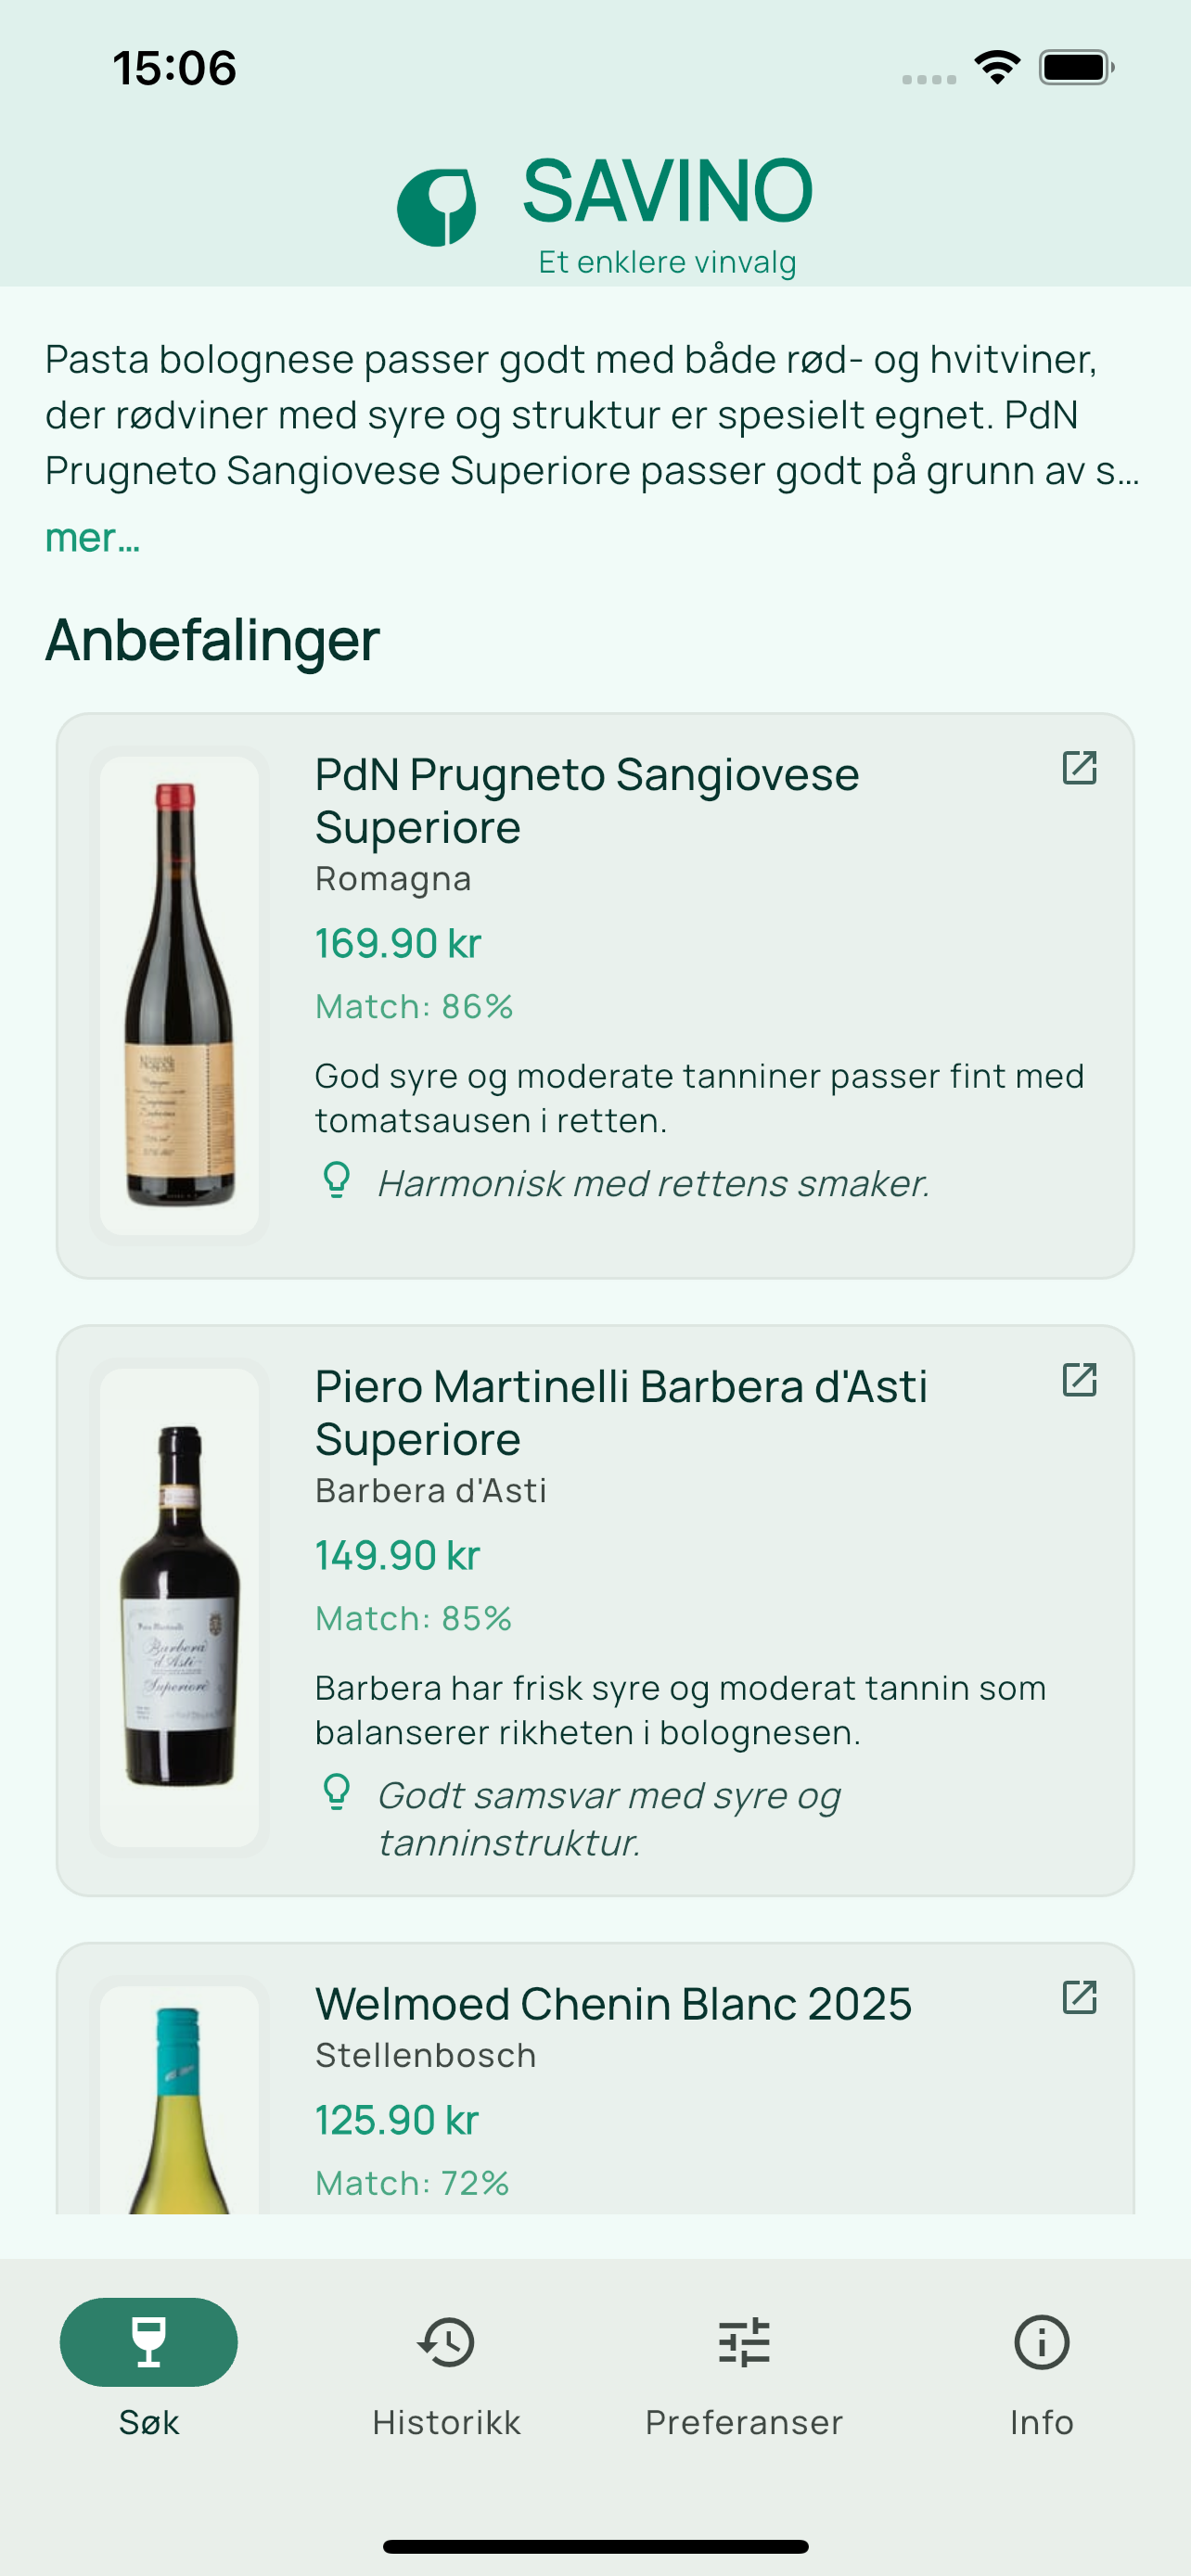
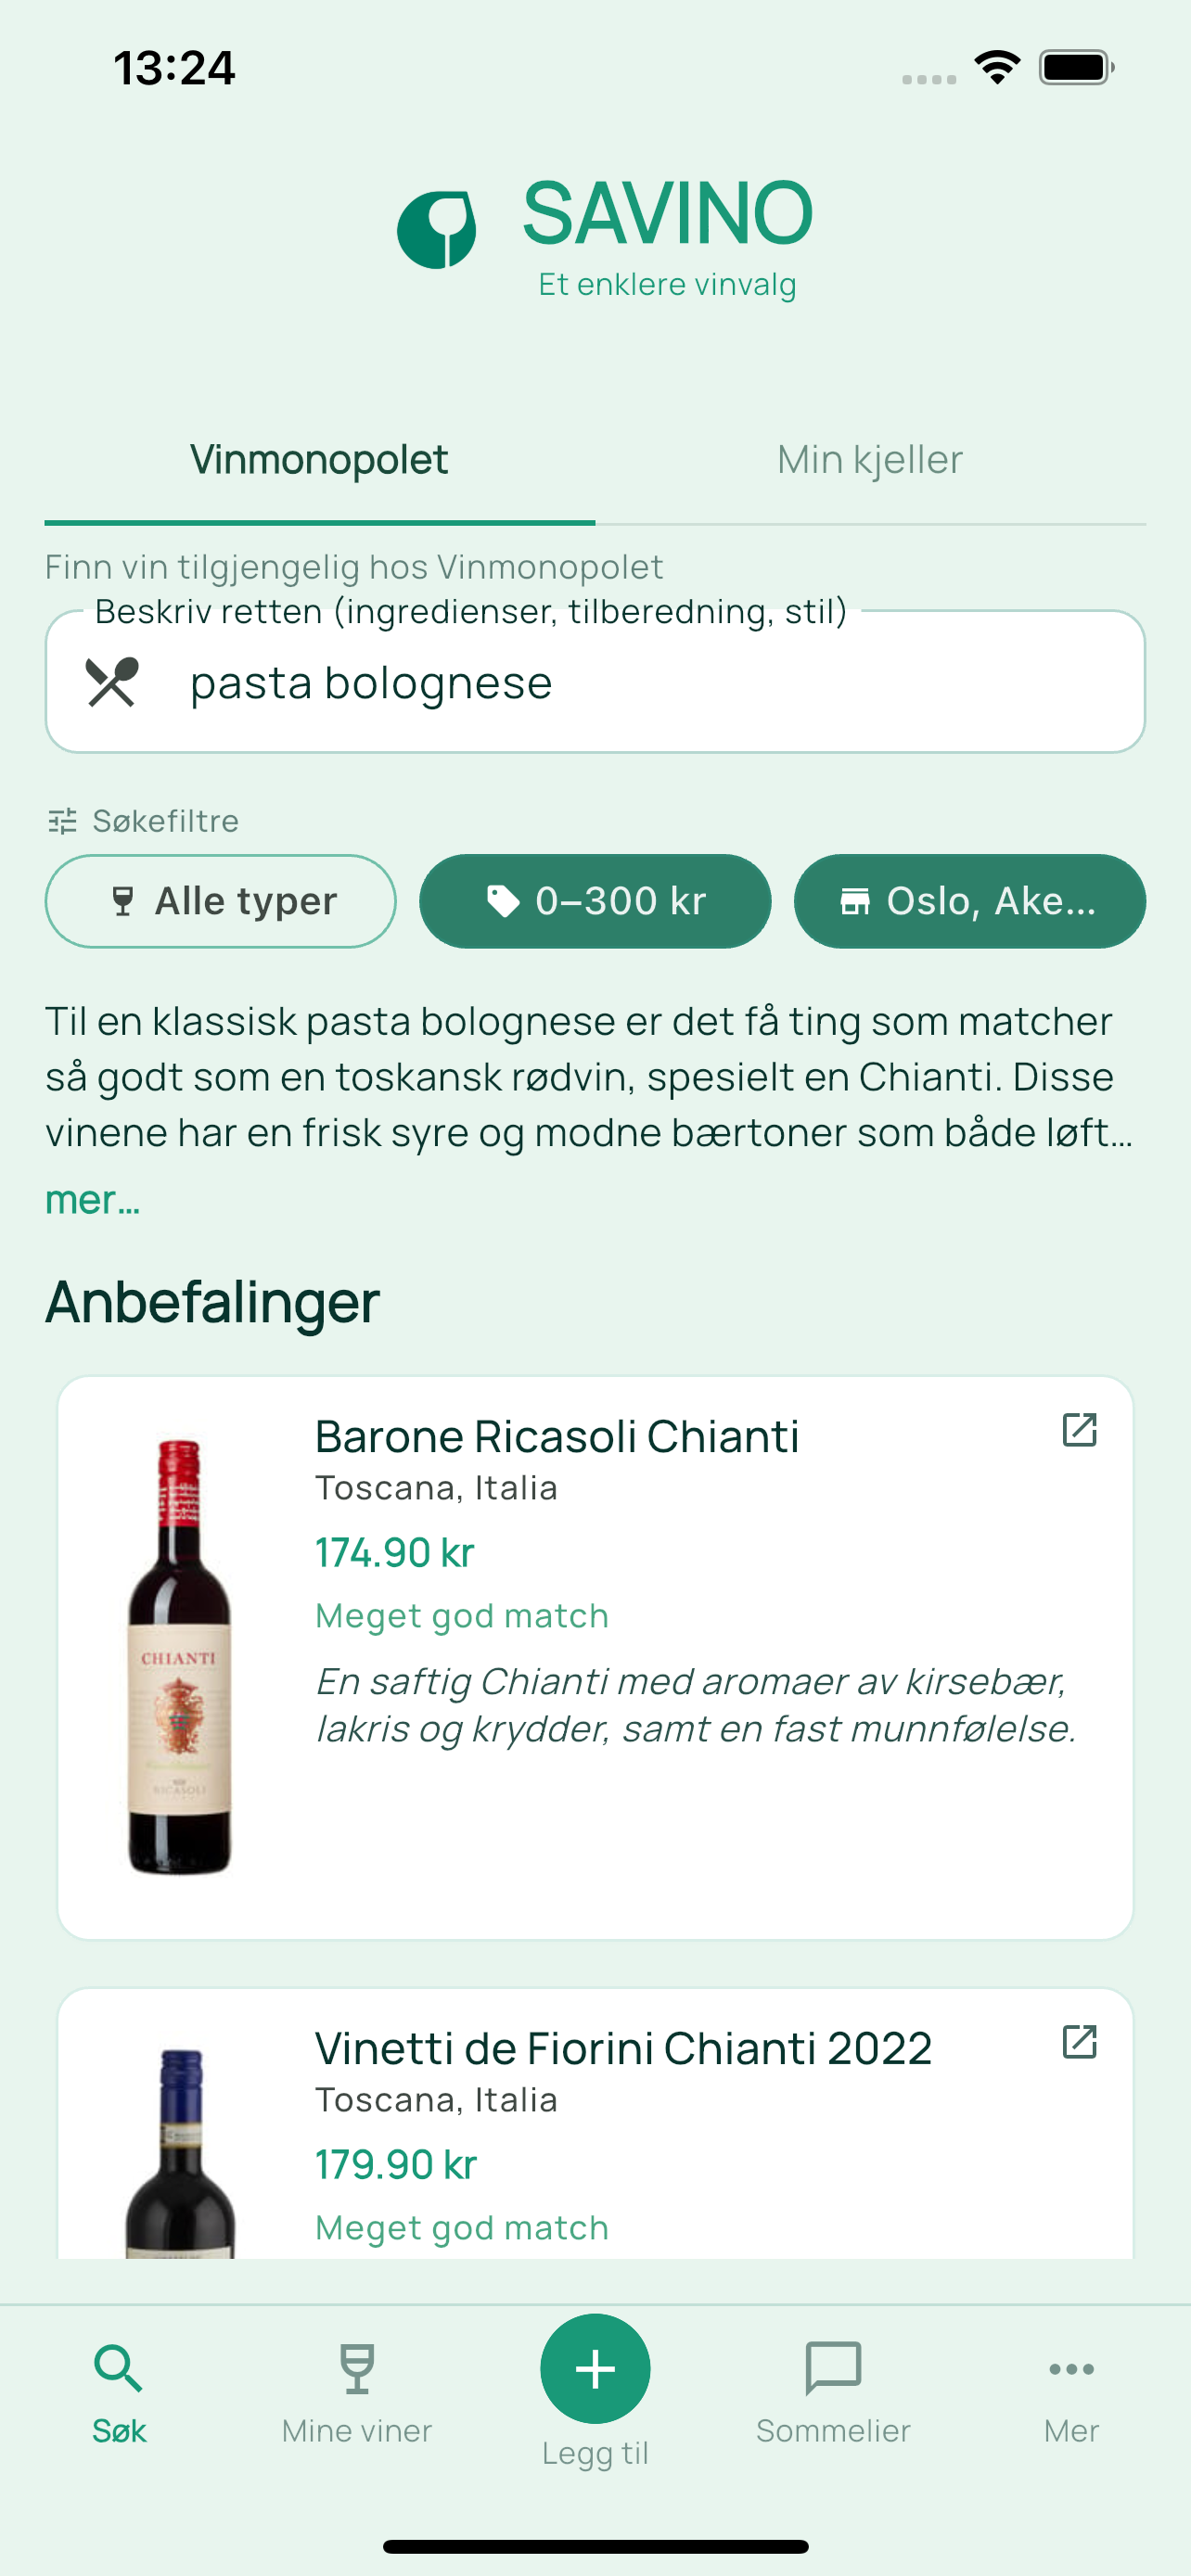
fix landningssida

diff --git a/terms.html b/terms.html
@@ -1,0 +1,89 @@
+<!doctype html>
+<html lang="no" class="light">
+<head>
+  <meta charset="utf-8" />
+  <meta name="viewport" content="width=device-width, initial-scale=1" />
+  <title>Savino – Vilkår for bruk</title>
+  <meta name="description" content="Vilkår for bruk av Savino." />
+  <meta name="theme-color" content="#0B4F46" />
+  <link rel="preconnect" href="https://fonts.googleapis.com">
+  <link rel="preconnect" href="https://fonts.gstatic.com" crossorigin>
+  <link href="https://fonts.googleapis.com/css2?family=Inter:wght@400;600;700&display=swap" rel="stylesheet">
+  <link rel="stylesheet" href="./styles.css" />
+</head>
+
+<body>
+
+  <header class="nav">
+    <div class="container nav-inner">
+      <div class="brand">
+        <img
+          src="./logo_primary.png"
+          alt="Savino"
+          class="logo"
+          width="48"
+          height="48"
+        />
+        <div class="brand-text">
+          <div class="brand-name">SAVINO</div>
+          <div class="brand-tagline">Vilkår for bruk</div>
+        </div>
+      </div>
+      <div class="nav-actions">
+        <a class="btn btn-secondary" href="./index.html">Tilbake</a>
+      </div>
+    </div>
+  </header>
+
+  <main class="first-section">
+    <div class="container">
+      <h1>Vilkår for bruk</h1>
+      <p class="lead">Sist oppdatert: 29. april 2026</p>
+
+      <div class="card" style="max-width: 860px;">
+        <h3>Om Savino</h3>
+        <p>Savino er en app som gir vinanbefalinger basert på matretter brukeren skriver inn. Ved å bruke appen godtar du disse vilkårene.</p>
+
+        <h3 style="margin-top:18px;">Premium-abonnement</h3>
+        <p>Savino tilbyr et valgfritt Premium-abonnement med følgende betingelser:</p>
+        <ul class="list">
+          <li><strong>Månedlig abonnement:</strong> NOK 79 per måned</li>
+          <li><strong>Årlig abonnement:</strong> NOK 699 per år</li>
+          <li>Abonnementet fornyes automatisk med mindre det sies opp minst 24 timer før gjeldende periode utløper.</li>
+          <li>Betaling belastes din App Store- eller Google Play-konto ved kjøpsbekreftelse.</li>
+          <li>Du kan administrere eller si opp abonnementet i innstillingene for App Store eller Google Play.</li>
+        </ul>
+
+        <h3 style="margin-top:18px;">Bruk av tjenesten</h3>
+        <ul class="list">
+          <li>Appen er beregnet for personlig, ikke-kommersiell bruk.</li>
+          <li>Du må ikke misbruke tjenesten eller forsøke å omgå betalingsløsninger.</li>
+        </ul>
+
+        <h3 style="margin-top:18px;">Ansvarsfraskrivelse</h3>
+        <p>Savinos vinanbefalinger er ment som veiledning og ikke som profesjonell sommelierrådgivning. Vi er ikke ansvarlige for kjøp gjort basert på appens anbefalinger.</p>
+
+        <h3 style="margin-top:18px;">Endringer i vilkårene</h3>
+        <p>Vi forbeholder oss retten til å oppdatere disse vilkårene. Vesentlige endringer vil bli varslet i appen.</p>
+
+        <h3 style="margin-top:18px;">Kontakt</h3>
+        <p class="mono"><a href="mailto:[email redacted]">[email redacted]</a></p>
+      </div>
+    </div>
+  </main>
+
+  <footer class="footer">
+    <div class="container footer-inner">
+      <div>© <span id="year"></span> Savino</div>
+      <div class="footer-links">
+        <a href="./index.html">Hjem</a>
+        <a href="mailto:[email redacted]">Support</a>
+      </div>
+    </div>
+  </footer>
+
+  <script>
+    document.getElementById("year").textContent = new Date().getFullYear();
+  </script>
+</body>
+</html>

diff --git a/privacy.html b/privacy.html
@@ -1,5 +1,5 @@
 <!doctype html>
-<html lang="no">
+<html lang="no" class="light">
 <head>
   <meta charset="utf-8" />
   <meta name="viewport" content="width=device-width, initial-scale=1" />
@@ -13,57 +13,62 @@
 </head>
 
 <body>
-  
-  <header class="nav">
-      <div class="container nav-inner">
-        <div class="brand">
-          <img
-            src="./logo_primary.png"
-            alt="Savino"
-            class="logo"
-            width="48"
-            height="48"
-          />
-          <div class="brand-text">
-            <div class="brand-name">SAVINO</div>
-            <div class="brand-tagline">Personvernerklæring</div>
-          </div>
-        </div>
 
-        <div class="nav-actions">
+  <header class="nav">
+    <div class="container nav-inner">
+      <div class="brand">
+        <img
+          src="./logo_primary.png"
+          alt="Savino"
+          class="logo"
+          width="48"
+          height="48"
+        />
+        <div class="brand-text">
+          <div class="brand-name">SAVINO</div>
+          <div class="brand-tagline">Personvernerklæring</div>
+        </div>
+      </div>
+      <div class="nav-actions">
         <a class="btn btn-secondary" href="./index.html">Tilbake</a>
       </div>
-      </div>
-    </header>
+    </div>
+  </header>
 
   <main class="first-section">
     <div class="container">
       <h1>Personvernerklæring</h1>
-      <p class="lead">Sist oppdatert: 5. november 2025</p>
+      <p class="lead">Sist oppdatert: 29. april 2026</p>
 
       <div class="card" style="max-width: 860px;">
         <h3>Om Savino</h3>
-        <p>Savino er en app som gir vinanbefalinger basert på matretter brukeren skriver inn.</p>
+        <p>Savino er en app for vinkjellerforvaltning og vinanbefalinger. Du kan registrere viner i din digitale vinkjeller, få anbefalinger basert på matretter, og chatte med en digital sommelier som hjelper deg å velge vin fra kjelleren din eller søke i eksterne vinkataloger.</p>
 
-        <h3 style="margin-top:18px;">Hvilke data behandles</h3>
-        <p>Savino samler ikke inn navn, e-postadresse eller andre direkte identifiserende opplysninger.</p>
-        <p>Appen kan behandle følgende data for å fungere og forbedres:</p>
+        <h3 style="margin-top:18px;">Hva vi lagrer</h3>
         <ul class="list">
-          <li>Søkehistorikk og produktinteraksjon (bruksmønster) lagres anonymt for analyse og forbedring.</li>
-          <li>En anonym app-/brukeridentifikator kan brukes for å lagre preferanser uten å vite hvem brukeren er.</li>
+          <li>Brukere får en anonym ID i Firebase som gjør at appen kan lagre data uten å vite hvem brukeren er.</li>
+          <li>Vinkjeller (viner du har registrert) lagres i Firestore knyttet til din bruker-ID.</li>
+          <li>Søkehistorikk og aktivitet i appen lagres anonymt i Google Firebase for å forbedre tjenesten.</li>
+          <li>Samtaler med den digitale sommelieren lagres ikke — de er kun aktive mens sesjonen pågår.</li>
+          <li>Dersom du velger å koble til en Google- eller Apple-konto, lagres e-postadressen din i Firebase Authentication.</li>
         </ul>
 
-        <h3 style="margin-top:18px;">Formål</h3>
+        <h3 style="margin-top:18px;">Tredjepartstjenester</h3>
         <ul class="list">
-          <li>Å forbedre vinanbefalinger</li>
-          <li>Å analysere bruk av appen (funksjoner og stabilitet)</li>
+          <li><strong>OpenAI:</strong> Vinanbefalinger og sommeliersamtaler behandles av OpenAI. Ingen persondata sendes — kun matrett- og vindata.</li>
+          <li><strong>RevenueCat:</strong> Abonnementsstatus og kjøpshistorikk deles med RevenueCat for å behandle kjøp og fornyelse.</li>
+          <li><strong>Apple App Store / Google Play:</strong> Betalingsbehandling skjer utelukkende via App Store eller Google Play — Savino lagrer ikke betalingsinformasjon.</li>
+          <li><strong>Vinmonopolet / Systembolaget:</strong> Vinsøk bruker offentlig tilgjengelig sortimentsdata.</li>
         </ul>
 
-        <h3 style="margin-top:18px;">Databehandlere og tredjepart</h3>
-        <p>Savino bruker Google Firebase som databehandler for drift og analyse. Vi selger ikke data og deler ikke data til markedsføringsformål.</p>
+        <h3 style="margin-top:18px;">Abonnement</h3>
+        <p>Abonnementsdata (nivå, utløpsdato, leverandør) lagres i Firestore knyttet til din bruker-ID. Savino lagrer ikke betalingsinformasjon.</p>
+
+        <h3 style="margin-top:18px;">Dine rettigheter</h3>
+        <p>Du kan når som helst slette kontoen din og all tilknyttet data fra Konto-siden i appen (GDPR art. 17). Kontakt oss på <a href="mailto:[email redacted]">[email redacted]</a> for spørsmål om dine data.</p>
 
         <h3 style="margin-top:18px;">Lagring og sikkerhet</h3>
-        <p>Kommunikasjon mellom appen og tjenestene er kryptert (HTTPS). Data lagres i Google Firebase.</p>
+        <p>All data lagres i Google Firebase (EU/EØS). Kommunikasjon mellom appen og serverne er kryptert (HTTPS).</p>
 
         <h3 style="margin-top:18px;">Kontakt</h3>
         <p class="mono"><a href="mailto:[email redacted]">[email redacted]</a></p>
@@ -76,6 +81,7 @@
       <div>© <span id="year"></span> Savino</div>
       <div class="footer-links">
         <a href="./index.html">Hjem</a>
+        <a href="./terms.html">Vilkår</a>
         <a href="mailto:[email redacted]">Support</a>
       </div>
     </div>

diff --git a/index.html b/index.html
@@ -1,5 +1,5 @@
 <!DOCTYPE html>
-<html lang="no">
+<html lang="no" class="light">
   <head>
     <meta charset="utf-8" />
     <meta name="viewport" content="width=device-width, initial-scale=1" />
@@ -52,15 +52,6 @@
         </div>
 
         <div class="nav-actions">
-          <button
-            class="theme-toggle"
-            id="themeToggle"
-            type="button"
-            aria-label="Bytt tema"
-          >
-            <span class="theme-dot" aria-hidden="true"></span>
-            <span class="theme-label">Tema</span>
-          </button>
           <a
             class="btn btn-primary"
             href="https://apps.apple.com/no/app/savino/id6755443985"
@@ -78,9 +69,9 @@
           <div class="hero-copy">
             <h1>Vin som passer til maten – på sekunder.</h1>
             <p class="lead">
-              Savino er en norsk app som anbefaler vin som passer til maten,
-              basert på Vinmonopolets sortiment i butikken du velger. Som en
-              digital sommelier – rett i lomma.
+              Savino er en norsk app som anbefaler vin til maten, hjelper deg
+              med å bygge en digital vinkjeller og lar deg chatte med en
+              AI-sommelier – basert på Vinmonopolets sortiment i butikken du velger.
             </p>
 
             <div class="cta-row">
@@ -108,7 +99,7 @@
               </div>
               <div class="trust-card">
                 <div class="trust-title">Norsk</div>
-                <div class="trust-sub">Tilpasset Vinmonopolet</div>
+                <div class="trust-sub">VM og Systembolaget</div>
               </div>
             </div>
           </div>
@@ -118,14 +109,11 @@
               <img
                 id="phoneShot"
                 class="phone-shot-single"
-                src="./screenshots/savino-dark.png"
+                src="./screenshots/savino-light.png"
                 alt="Savino – skjermbilde"
                 loading="lazy"
               />
             </div>
-            <p class="hint">
-              Tips: Bytt tema i toppmenyen for å se siden i mørk/lys stil.
-            </p>
           </div>
         </div>
       </section>
@@ -141,7 +129,8 @@
             <p>
               I stedet for generelle anbefalinger får du konkrete viner som er
               tilgjengelige, med forklaring på hvorfor de passer til retten du
-              skal lage.
+              skal lage. Du kan også lagre viner i din digitale vinkjeller og
+              chatte med en AI-sommelier for å få hjelp til å velge vin.
             </p>
           </div>
         </div>
@@ -195,15 +184,18 @@
             <div class="card">
               <h3>Er Savino gratis?</h3>
               <p>
-                Ja. Savino er gratis å bruke og krever ingen konto for å komme i
-                gang.
+                Grunnfunksjonene er gratis og krever ingen konto. Et valgfritt
+                Premium-abonnement gir tilgang til vinkjeller, AI-sommelier og
+                søk mot Systembolaget.
               </p>
             </div>
 
             <div class="card">
               <h3>Fungerer Savino kun i Norge?</h3>
               <p>
-                Ja. Appen er laget spesifikt for norske brukere og Vinmonopolet.
+                Primært for norske brukere og Vinmonopolet. Premium-abonnenter
+                kan i tillegg søke mot Systembolaget for grenseshoppere i
+                Bohuslän, Dalsland og Värmland.
               </p>
             </div>
 
@@ -232,13 +224,16 @@
             <div class="card">
               <h3>Personvernerklæring</h3>
               <p>
-                Savino samler ikke inn navn eller e-post. Bruksmønster kan
+                Savino samler ikke inn navn eller IP-adresse. Bruksmønster
                 lagres anonymt for å forbedre appen.
               </p>
               <p>
                 <a class="link" href="./privacy.html"
                   >Les full personvernerklæring</a
                 >
+              </p>
+              <p style="margin-top:8px;">
+                <a class="link" href="./terms.html">Vilkår for bruk</a>
               </p>
             </div>
           </div>
@@ -251,37 +246,13 @@
         <div>© <span id="year"></span> Savino</div>
         <div class="footer-links">
           <a href="./privacy.html">Personvern</a>
+          <a href="./terms.html">Vilkår</a>
           <a href="mailto:[email redacted]">Support</a>
         </div>
       </div>
     </footer>
 
     <script>
-      const root = document.documentElement;
-      const key = "savino-theme";
-      const phone = document.getElementById("phoneShot");
-
-      const applyShot = () => {
-        const isLight = root.classList.contains("light");
-        if (phone)
-          phone.src = isLight
-            ? "./screenshots/savino-light.png"
-            : "./screenshots/savino-dark.png";
-      };
-
-      const saved = localStorage.getItem(key);
-      if (saved === "light") root.classList.add("light");
-      applyShot();
-
-      document.getElementById("themeToggle")?.addEventListener("click", () => {
-        root.classList.toggle("light");
-        localStorage.setItem(
-          key,
-          root.classList.contains("light") ? "light" : "dark"
-        );
-        applyShot();
-      });
-
       document.getElementById("year").textContent = new Date().getFullYear();
     </script>
   </body>